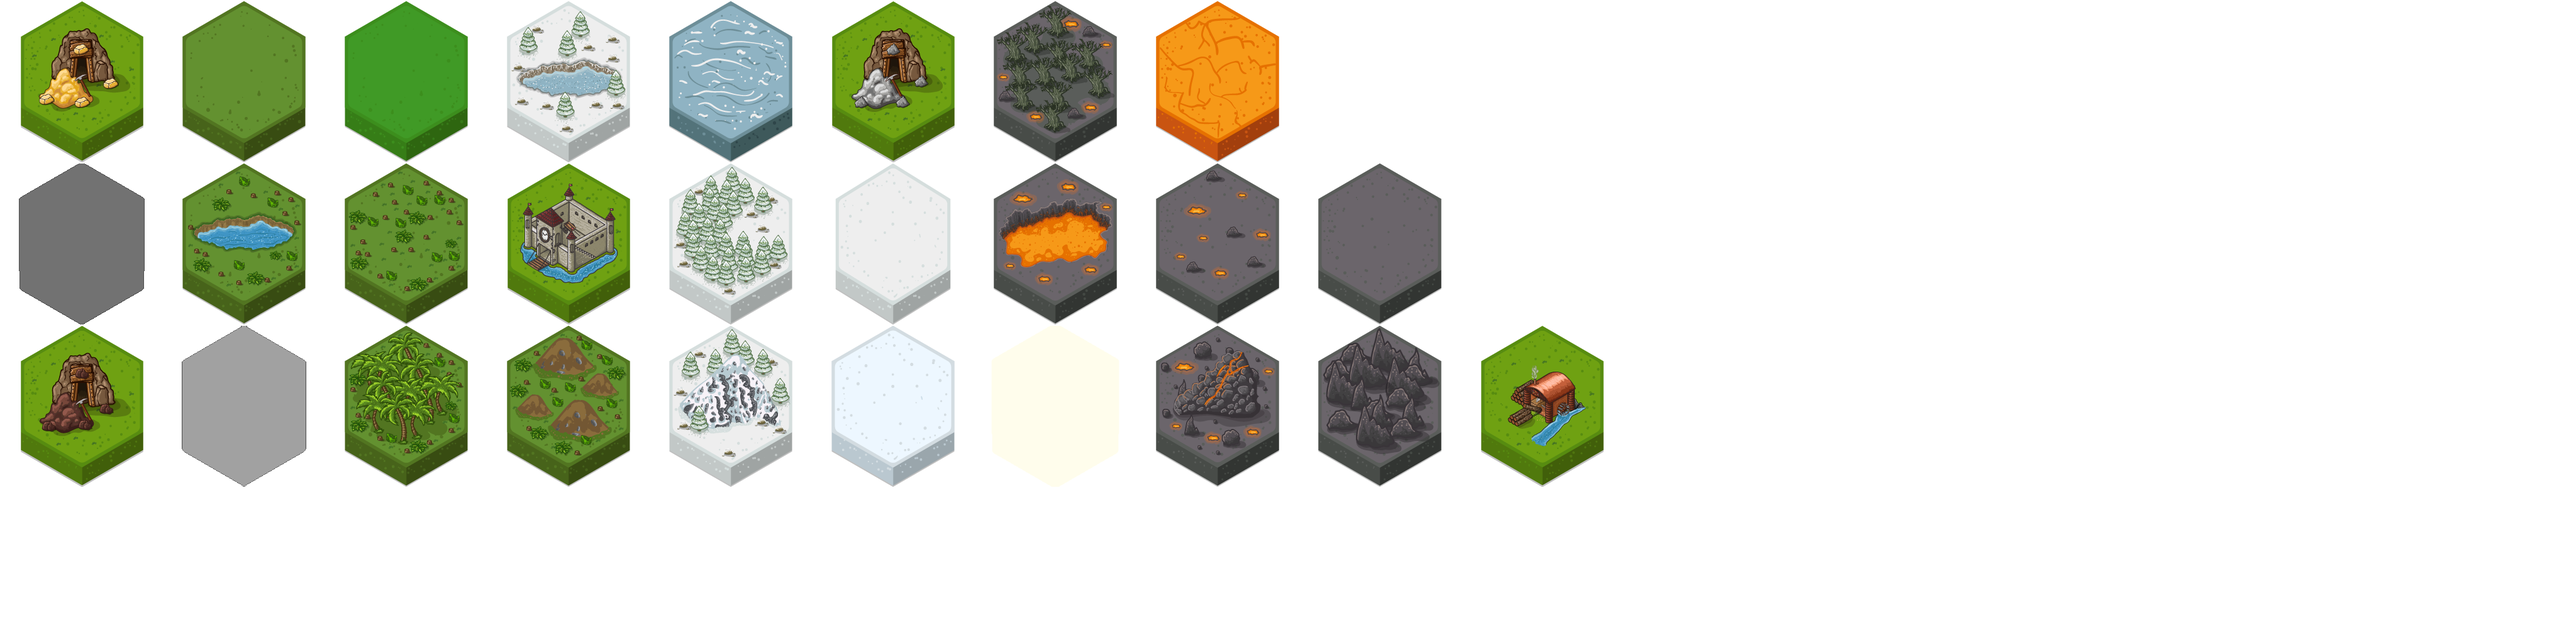
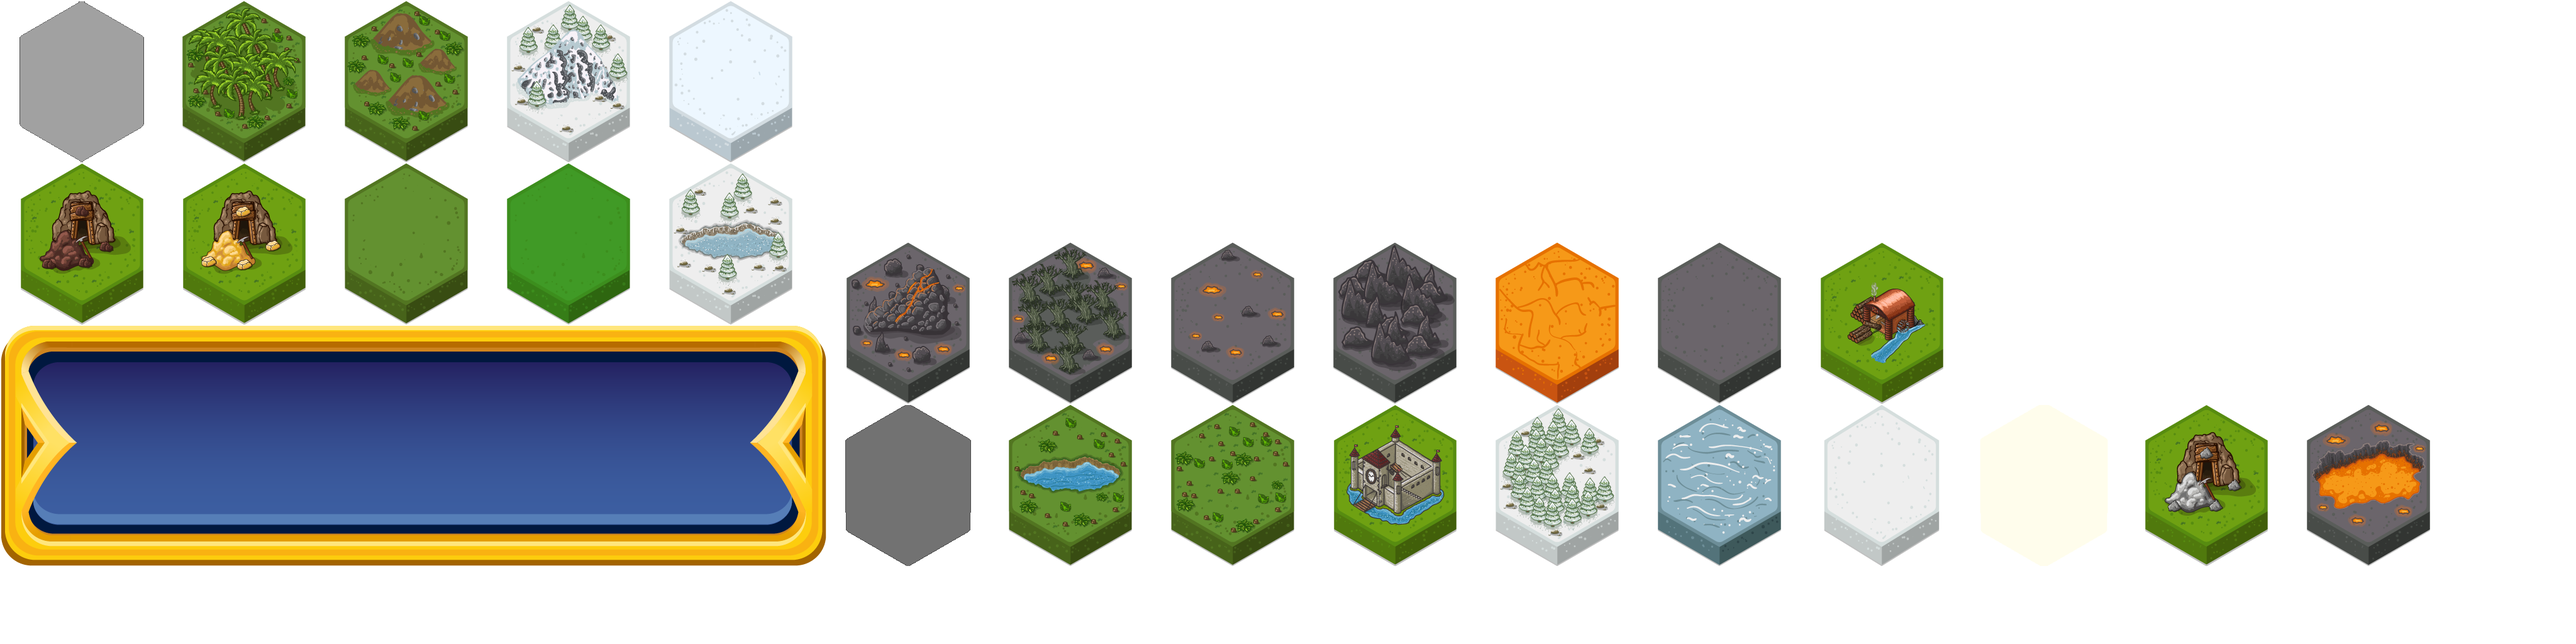
add building menu and select build

diff --git a/WarofAges/core/src/com/uysals/game/warofages/objects/Floor.java b/WarofAges/core/src/com/uysals/game/warofages/objects/Floor.java
@@ -2,6 +2,7 @@ package com.uysals.game.warofages.objects;
 
 import com.badlogic.gdx.graphics.g2d.SpriteBatch;
 import com.badlogic.gdx.graphics.g2d.TextureRegion;
+import com.badlogic.gdx.math.Vector2;
 import com.uysals.game.warofages.GameConfig;
 
 public class Floor {
@@ -10,6 +11,7 @@ public class Floor {
     public int isDisabled;
     public int region;
     public boolean isSelected;
+    public int building;
 
     public Floor(float xCoor, float yCoor, int isDisabled, int region) {
         this.xCoor = xCoor;
@@ -20,7 +22,12 @@ public class Floor {
     }
 
     public void draw(SpriteBatch batch) {
-        batch.draw(GameConfig.textureRegions.get(region), xCoor - 128f, yCoor - 128f);
+        if(building != 0) {
+            batch.draw(GameConfig.buildingRegions.get(building - 1), xCoor - 128f, yCoor - 128f);
+        } else {
+            batch.draw(GameConfig.textureRegions.get(region), xCoor - 128f, yCoor - 128f);
+        }
+
         if(isDisabled == 1) {
             batch.draw(GameConfig.disabledFloor, xCoor - 128f, yCoor - 128f);
         } else if(isDisabled == 2) {
@@ -29,5 +36,35 @@ public class Floor {
         if(isSelected){
             batch.draw(GameConfig.selectedFloor, xCoor -128f, yCoor - 128f);
         }
+    }
+
+    public void drawMenu(SpriteBatch batch) {
+        float needWidth = GameConfig.availableBuilds[region].length * 300f - 44f;
+        if(region != 0 && building == 0) {
+            batch.draw(GameConfig.buildingMenu, 10f, 0f, GameConfig.menuViewPortWith - 20f, 300f);
+
+            for(int i = 0; i < GameConfig.availableBuilds[region].length; i++) {
+                batch.draw(GameConfig.buildingRegions.get(GameConfig.availableBuilds[region][i]), GameConfig.menuViewPortWith / 2 - (needWidth / 2) + (i * 300f), 22f);
+            }
+        }
+    }
+
+    public boolean controlTab(Vector2 worldTouch) {
+        if(region != 0 && building == 0) {
+            float needWidth = GameConfig.availableBuilds[region].length * 300f - 44f;
+            for(int i = 0; i < GameConfig.availableBuilds[region].length; i++) {
+                if(distance(worldTouch, new Vector2(GameConfig.menuViewPortWith / 2 - (needWidth / 2) + (i * 300f) + 128f, 150f)) < 100f) {
+                    building = GameConfig.availableBuilds[region][i] + 1;
+                    break;
+                }
+            }
+        } else {
+            return false;
+        }
+        return  true;
+    }
+
+    private double distance(Vector2 object1, Vector2 object2){
+        return Math.sqrt(Math.pow((object2.x - object1.x), 2) + Math.pow((object2.y - object1.y), 2));
     }
 }

diff --git a/WarofAges/core/src/com/uysals/game/warofages/screens/loading/LoadingScreen.java b/WarofAges/core/src/com/uysals/game/warofages/screens/loading/LoadingScreen.java
@@ -79,6 +79,7 @@ public class LoadingScreen extends ScreenAdapter {
             GameConfig.disabledFloor = assetManager.get(AssetDescriptors.FLOORS).findRegion("disabledFloor");
             GameConfig.disabledFloor2 = assetManager.get(AssetDescriptors.FLOORS).findRegion("disabledFloor2");
             GameConfig.selectedFloor = assetManager.get(AssetDescriptors.FLOORS).findRegion("selectedFloor");
+            GameConfig.buildingMenu = assetManager.get(AssetDescriptors.FLOORS).findRegion("buildingMenu");
 
             GameConfig.textureRegions = new ArrayList<TextureRegion>();
             GameConfig.textureRegions.add(assetManager.get(AssetDescriptors.FLOORS).findRegion("greencastle"));
@@ -101,6 +102,12 @@ public class LoadingScreen extends ScreenAdapter {
             GameConfig.textureRegions.add(assetManager.get(AssetDescriptors.FLOORS).findRegion("volcanic5"));
             GameConfig.textureRegions.add(assetManager.get(AssetDescriptors.FLOORS).findRegion("volcanic6"));
             GameConfig.textureRegions.add(assetManager.get(AssetDescriptors.FLOORS).findRegion("volcanic7"));
+
+            GameConfig.buildingRegions = new ArrayList<TextureRegion>();
+            GameConfig.buildingRegions.add(assetManager.get(AssetDescriptors.FLOORS).findRegion("woodMine"));
+            GameConfig.buildingRegions.add(assetManager.get(AssetDescriptors.FLOORS).findRegion("goldMine"));
+            GameConfig.buildingRegions.add(assetManager.get(AssetDescriptors.FLOORS).findRegion("stoneMine"));
+            GameConfig.buildingRegions.add(assetManager.get(AssetDescriptors.FLOORS).findRegion("coalMine"));
 
 
             game.newScreen(new LoginScreen(game));

diff --git a/WarofAges/core/src/com/uysals/game/warofages/screens/mainpage/MainPageController.java b/WarofAges/core/src/com/uysals/game/warofages/screens/mainpage/MainPageController.java
@@ -83,6 +83,10 @@ public class MainPageController implements GestureDetector.GestureListener {
         return floors;
     }
 
+    public int getSelectedFloor() {
+        return selectedFloor;
+    }
+
     @Override
     public boolean touchDown(float x, float y, int pointer, int button) {
         return false;
@@ -91,7 +95,13 @@ public class MainPageController implements GestureDetector.GestureListener {
     @Override
     public boolean tap(float x, float y, int count, int button) {
         if(selectedFloor != -1){
+            Vector2 worldTouch = menuViewport.unproject(new Vector2(x, y));
+
+            if(worldTouch.y < 300f && floors.get(selectedFloor).controlTab(worldTouch)) {
+                return false;
+            }
             floors.get(selectedFloor).isSelected = false;
+
         }
         selectedFloor = -1;
         Vector2 worldTouch = viewport.unproject(new Vector2(x, y));
@@ -99,7 +109,6 @@ public class MainPageController implements GestureDetector.GestureListener {
             if(distance(worldTouch, new Vector2(floors.get(i).xCoor, floors.get(i).yCoor)) < 100f) {
                 selectedFloor = i;
                 floors.get(i).isSelected = true;
-                System.out.println(i);
                 break;
             }
         }

diff --git a/WarofAges/core/src/com/uysals/game/warofages/screens/mainpage/MainPageRenderer.java b/WarofAges/core/src/com/uysals/game/warofages/screens/mainpage/MainPageRenderer.java
@@ -65,6 +65,13 @@ public class MainPageRenderer implements Disposable {
         layout.setText(font32, "MENU CAMERA");
         font32.draw(batch, "MENU CAMERA", controller.getMenuViewport().getWorldWidth() * 0.9f - layout.width, controller.getMenuViewport().getWorldHeight() * 0.95f);
 
+
+
+        if(controller.getSelectedFloor() != -1) {
+            ArrayList<Floor> floors = controller.getFloors();
+            floors.get(controller.getSelectedFloor()).drawMenu(batch);
+        }
+
         batch.end();
     }
 
@@ -72,6 +79,8 @@ public class MainPageRenderer implements Disposable {
         controller.getViewport().update(width, height, true);
         controller.getCamera().position.set(0f, 0f, 0f);
         controller.getMenuViewport().update(width, height, true);
+        GameConfig.menuViewPortWith = controller.getMenuViewport().getWorldWidth();
+        GameConfig.menuViewPortHeight = controller.getMenuViewport().getWorldHeight();
     }
 
     @Override

diff --git a/WarofAges/core/src/com/uysals/game/warofages/GameConfig.java b/WarofAges/core/src/com/uysals/game/warofages/GameConfig.java
@@ -17,9 +17,18 @@ public class GameConfig {
     public static final float CAMERA_MIN_Y = -600f;
     public static final float CAMERA_MAX_Y = 600f;
 
+    public static float menuViewPortWith = 0f;
+    public static float menuViewPortHeight = 0f;
+
     public static TextureRegion disabledFloor = null;
     public static TextureRegion disabledFloor2 = null;
     public static TextureRegion selectedFloor = null;
+    public static TextureRegion buildingMenu = null;
+
 
     public static ArrayList<TextureRegion> textureRegions;
+
+    public static ArrayList<TextureRegion> buildingRegions;
+
+    public static int[][] availableBuilds = { {}, {1}, {0}, {3}, {3}, {2, 3}, {1, 3} };
 }
